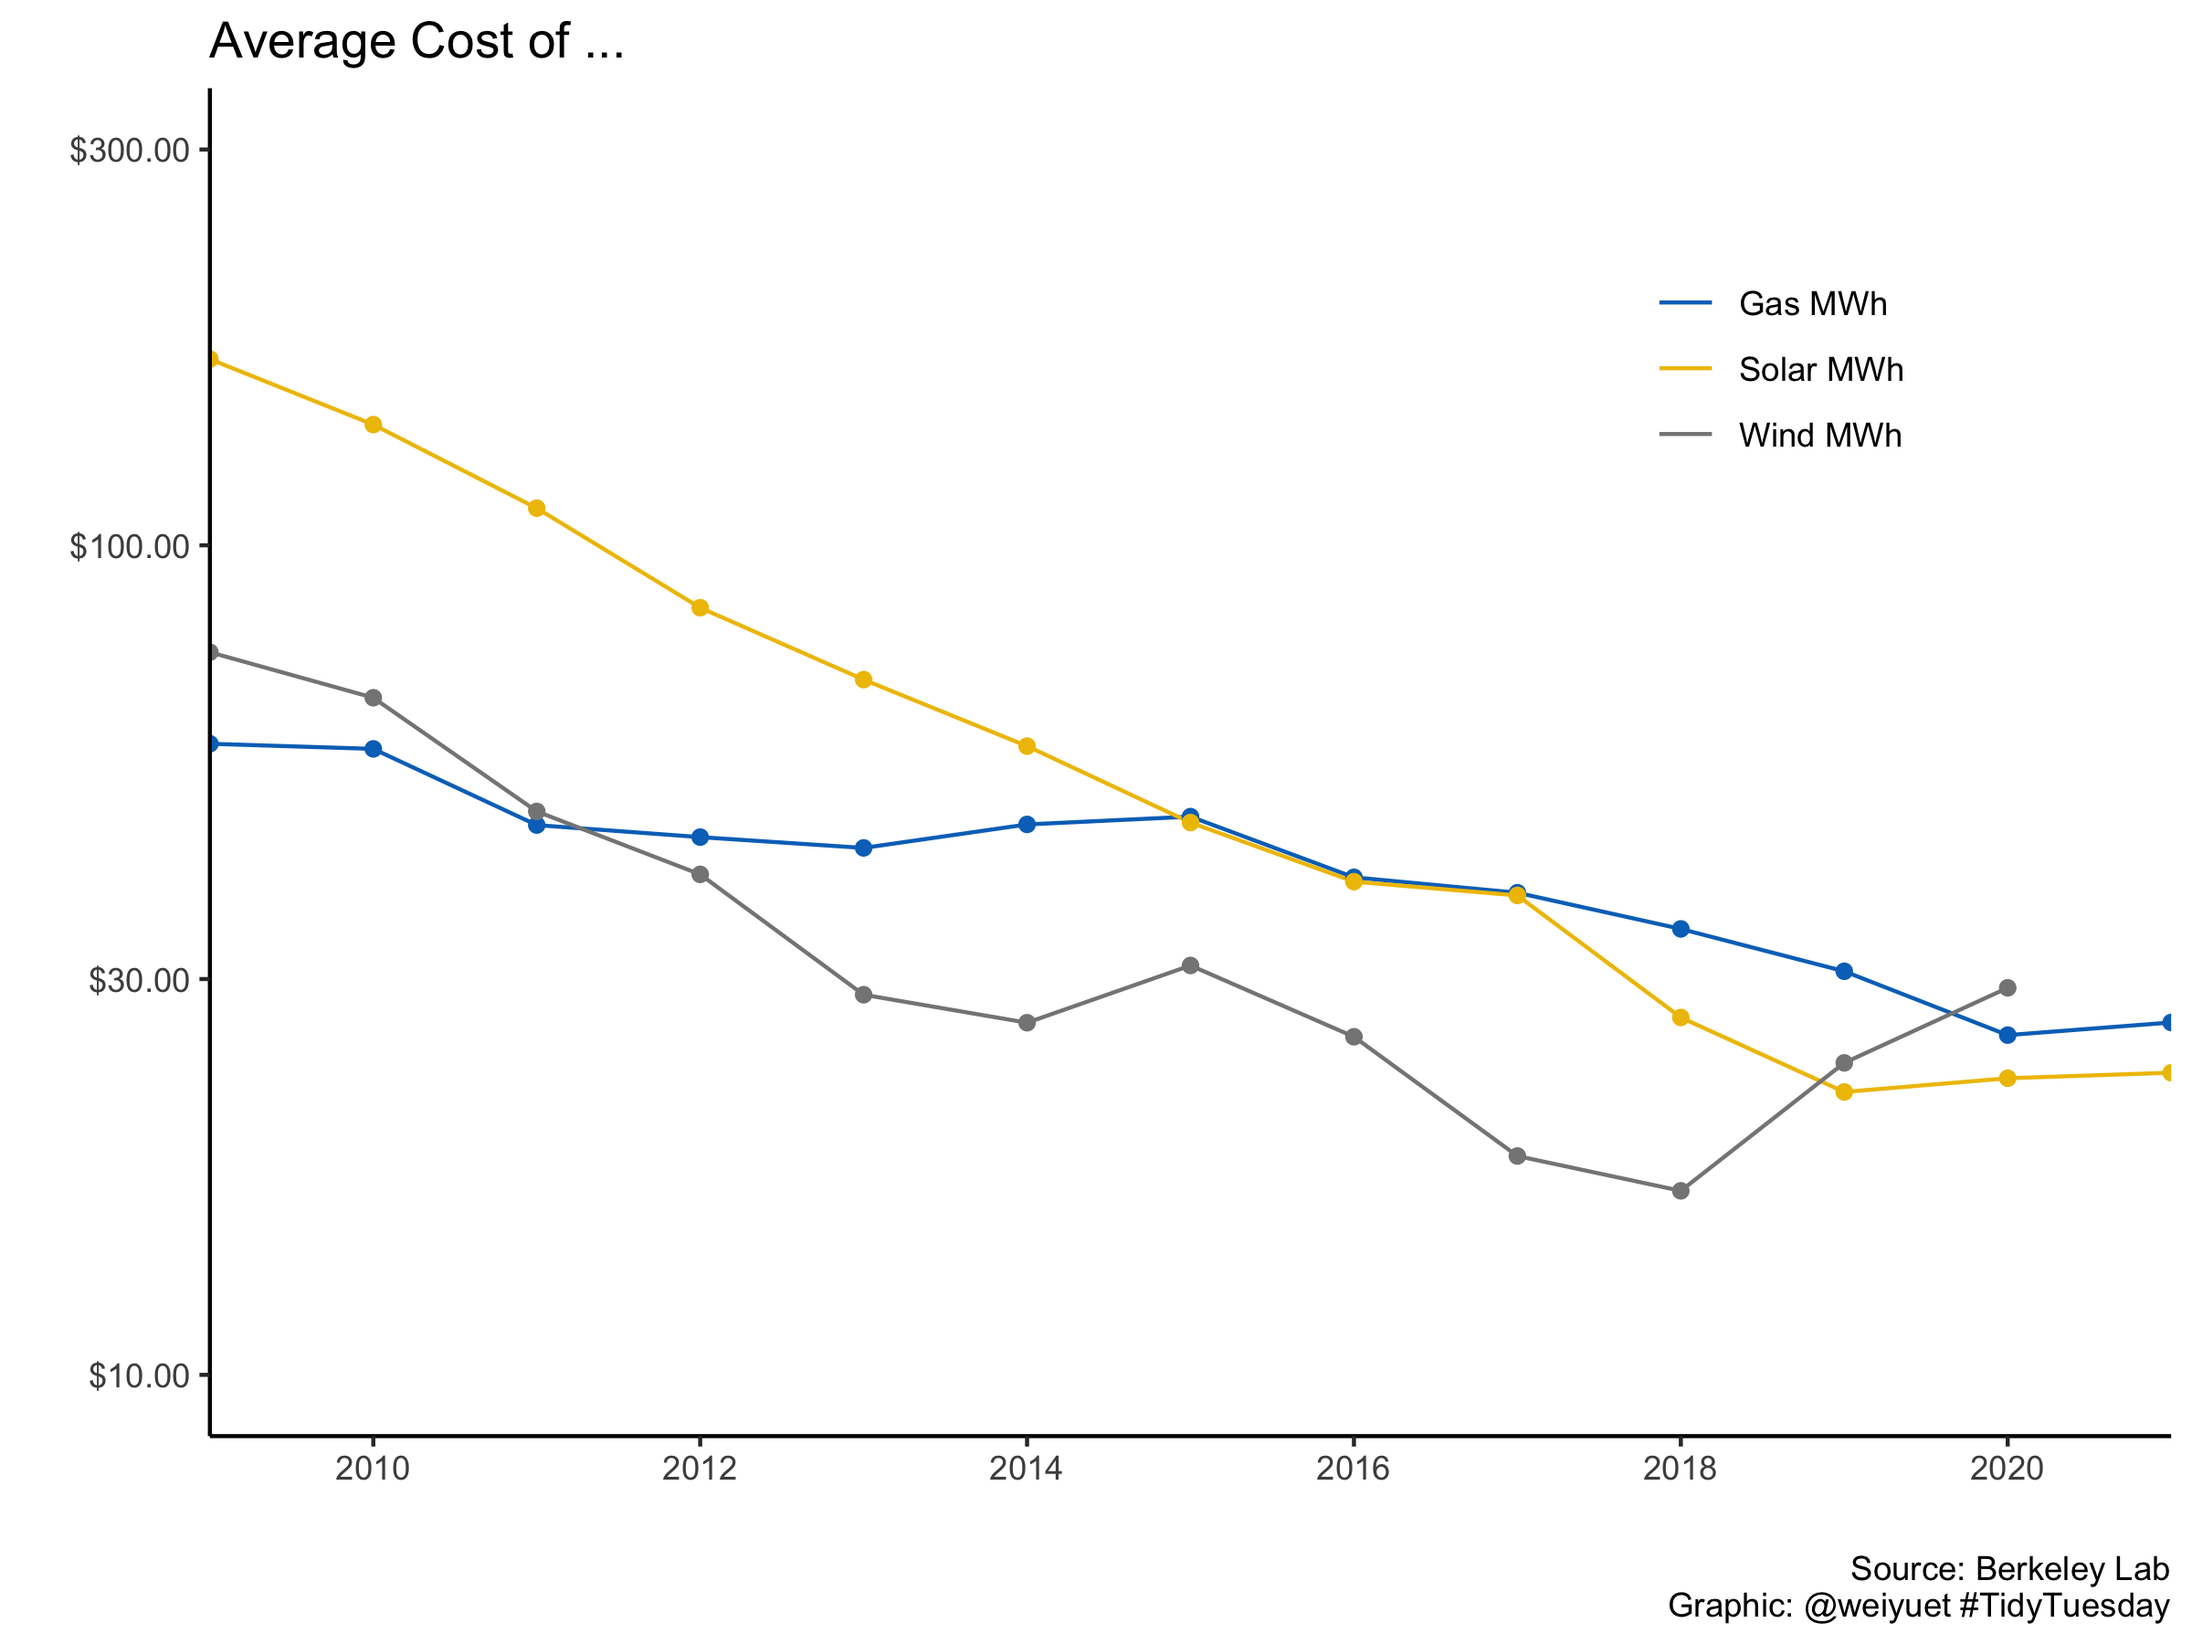
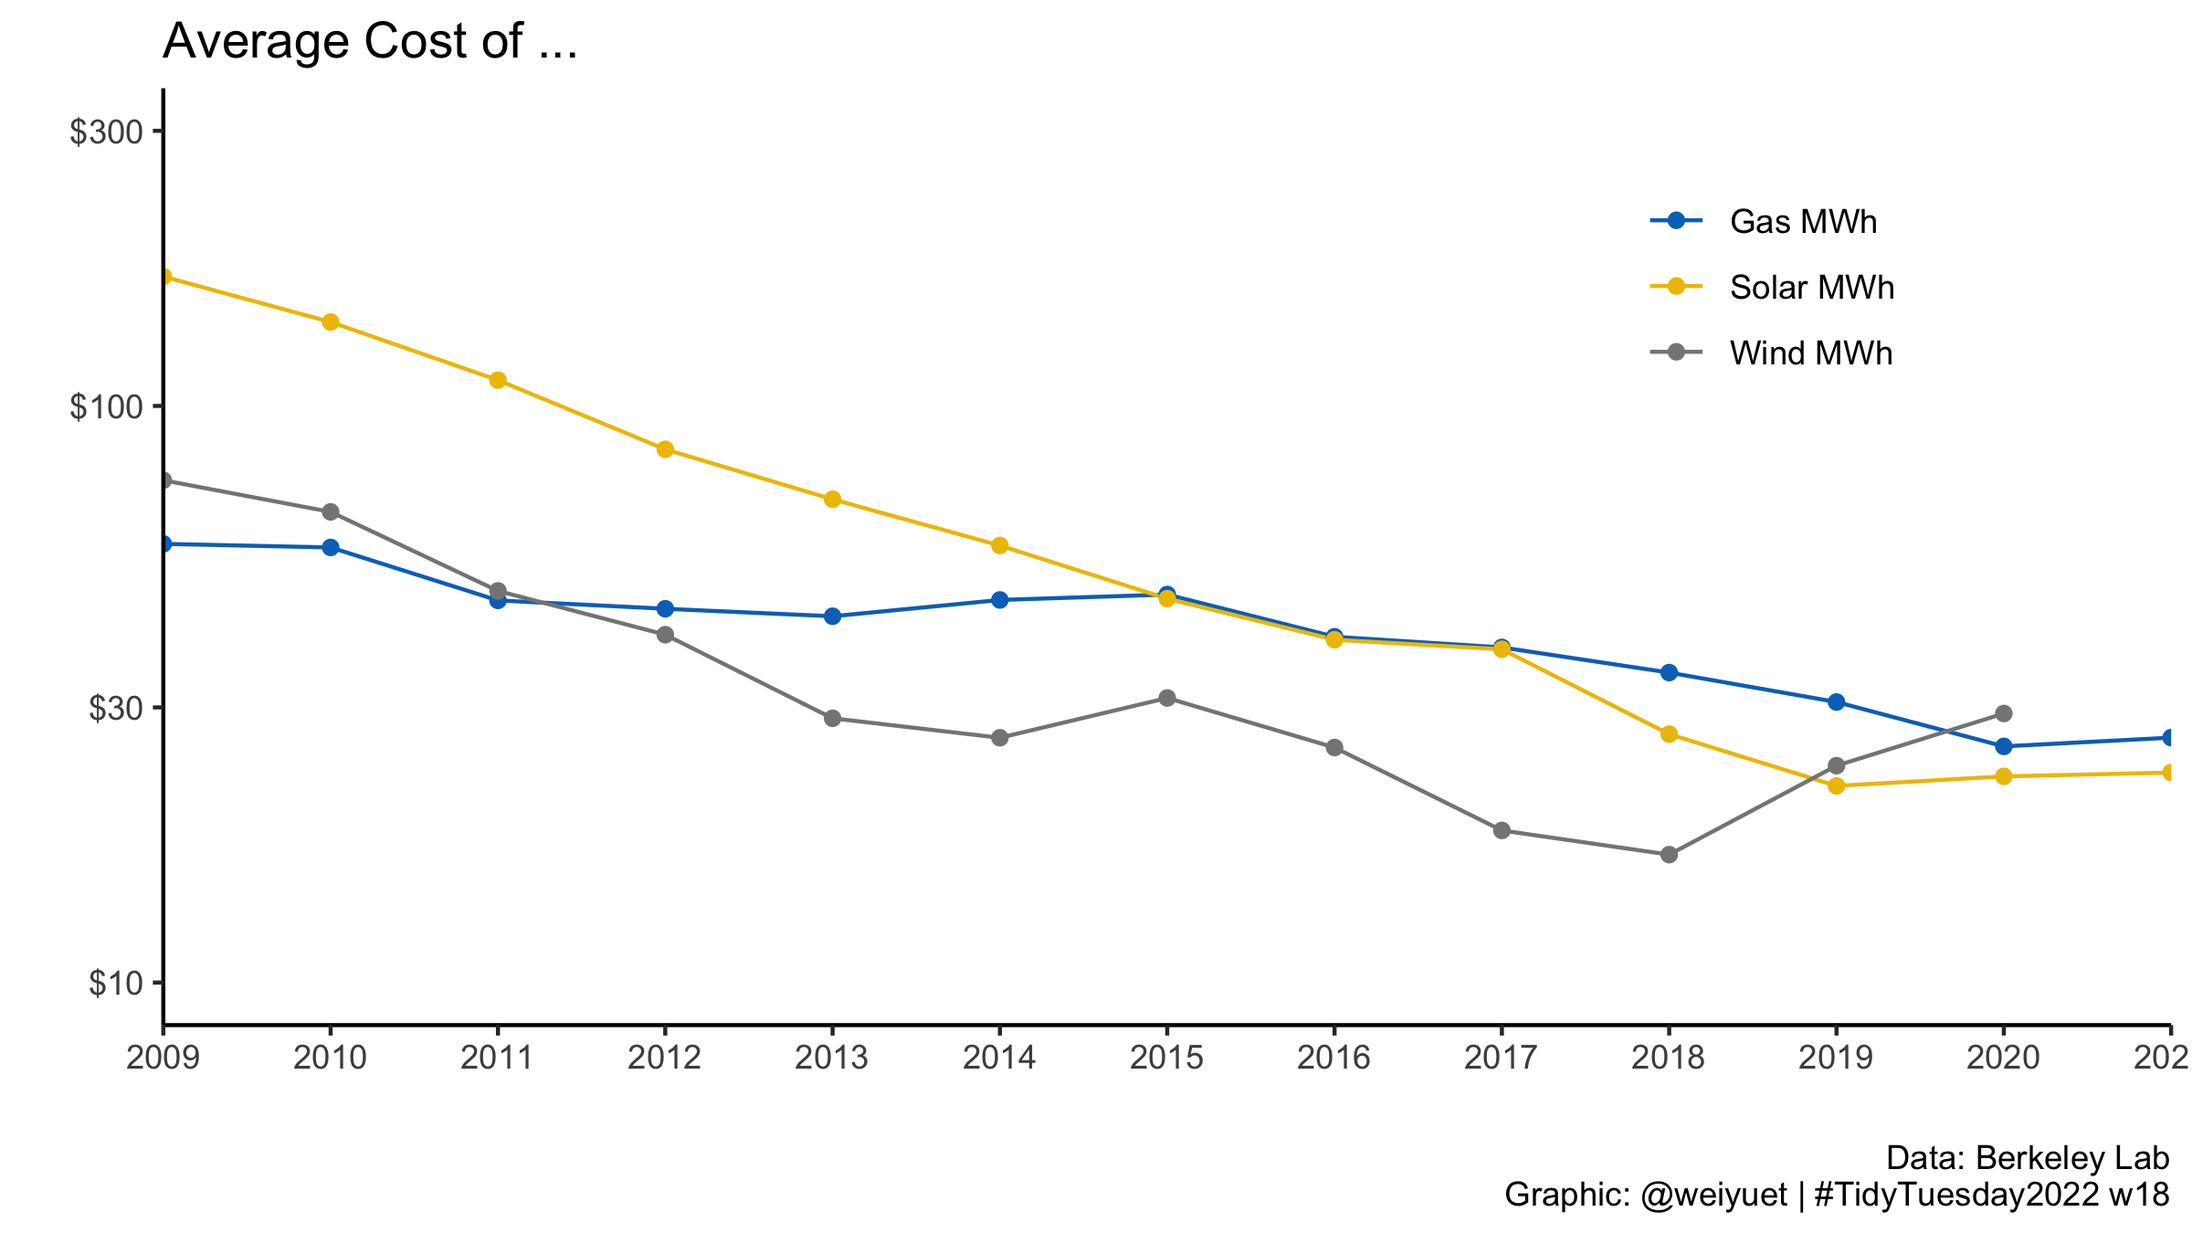
Updated README

diff --git a/2022/README.md b/2022/README.md
@@ -1,13 +1,19 @@
 ## Archive of 2022 `#TidyTuesdays`
 
-Week 27
+[Week 18](https://github.com/weiyuet/tidy-tuesday/blob/main/2022/w18/w18.R)
+![](https://github.com/weiyuet/tidy-tuesday/blob/main/2022/w18/average-cost.png)
+
+[Week 25](https://github.com/weiyuet/tidy-tuesday/blob/main/2022/w25/w25.R)
+![](https://github.com/weiyuet/tidy-tuesday/blob/main/2022/w25/us-population-census-1800s.png)
+
+[Week 27](https://github.com/weiyuet/tidy-tuesday/blob/main/2022/w27/w27.R)
 ![](https://github.com/weiyuet/tidy-tuesday/blob/main/2022/w27/rent-bay-area-core-cities.png)
 
-Week 29
+[Week 29](https://github.com/weiyuet/tidy-tuesday/blob/main/2022/w29/w29.R)
 ![](https://github.com/weiyuet/tidy-tuesday/blob/main/2022/w29/internetuser-asean.png)
 
-Week 34
+[Week 34](https://github.com/weiyuet/tidy-tuesday/blob/main/2022/w34/w34.R)
 ![](https://github.com/weiyuet/tidy-tuesday/blob/main/2022/w34/process-size-and-transistor-count.png)
 
-Week 37
+[Week 37](https://github.com/weiyuet/tidy-tuesday/blob/main/2022/w37/w37.R)
 ![](https://github.com/weiyuet/tidy-tuesday/blob/main/2022/w37/bigfoot-sightings-state.png)

diff --git a/2021/README.md b/2021/README.md
@@ -1,6 +1,6 @@
 ## Archive of 2021 `#TidyTuesdays`
 
-Week 5
+[Week 5](https://github.com/weiyuet/tidy-tuesday/blob/main/2021/w5/w5.R)
 ![](https://github.com/weiyuet/tidy-tuesday/blob/main/2021/w5/types-of-plastic-discarded.png)
 
 w12 - Harrington (2021, March 23). Ronan's #TidyTuesday blog: Video Games and Sliced. Retrieved from https://tidytuesday.netlify.app/posts/2021-03-23-video-games-and-sliced/
